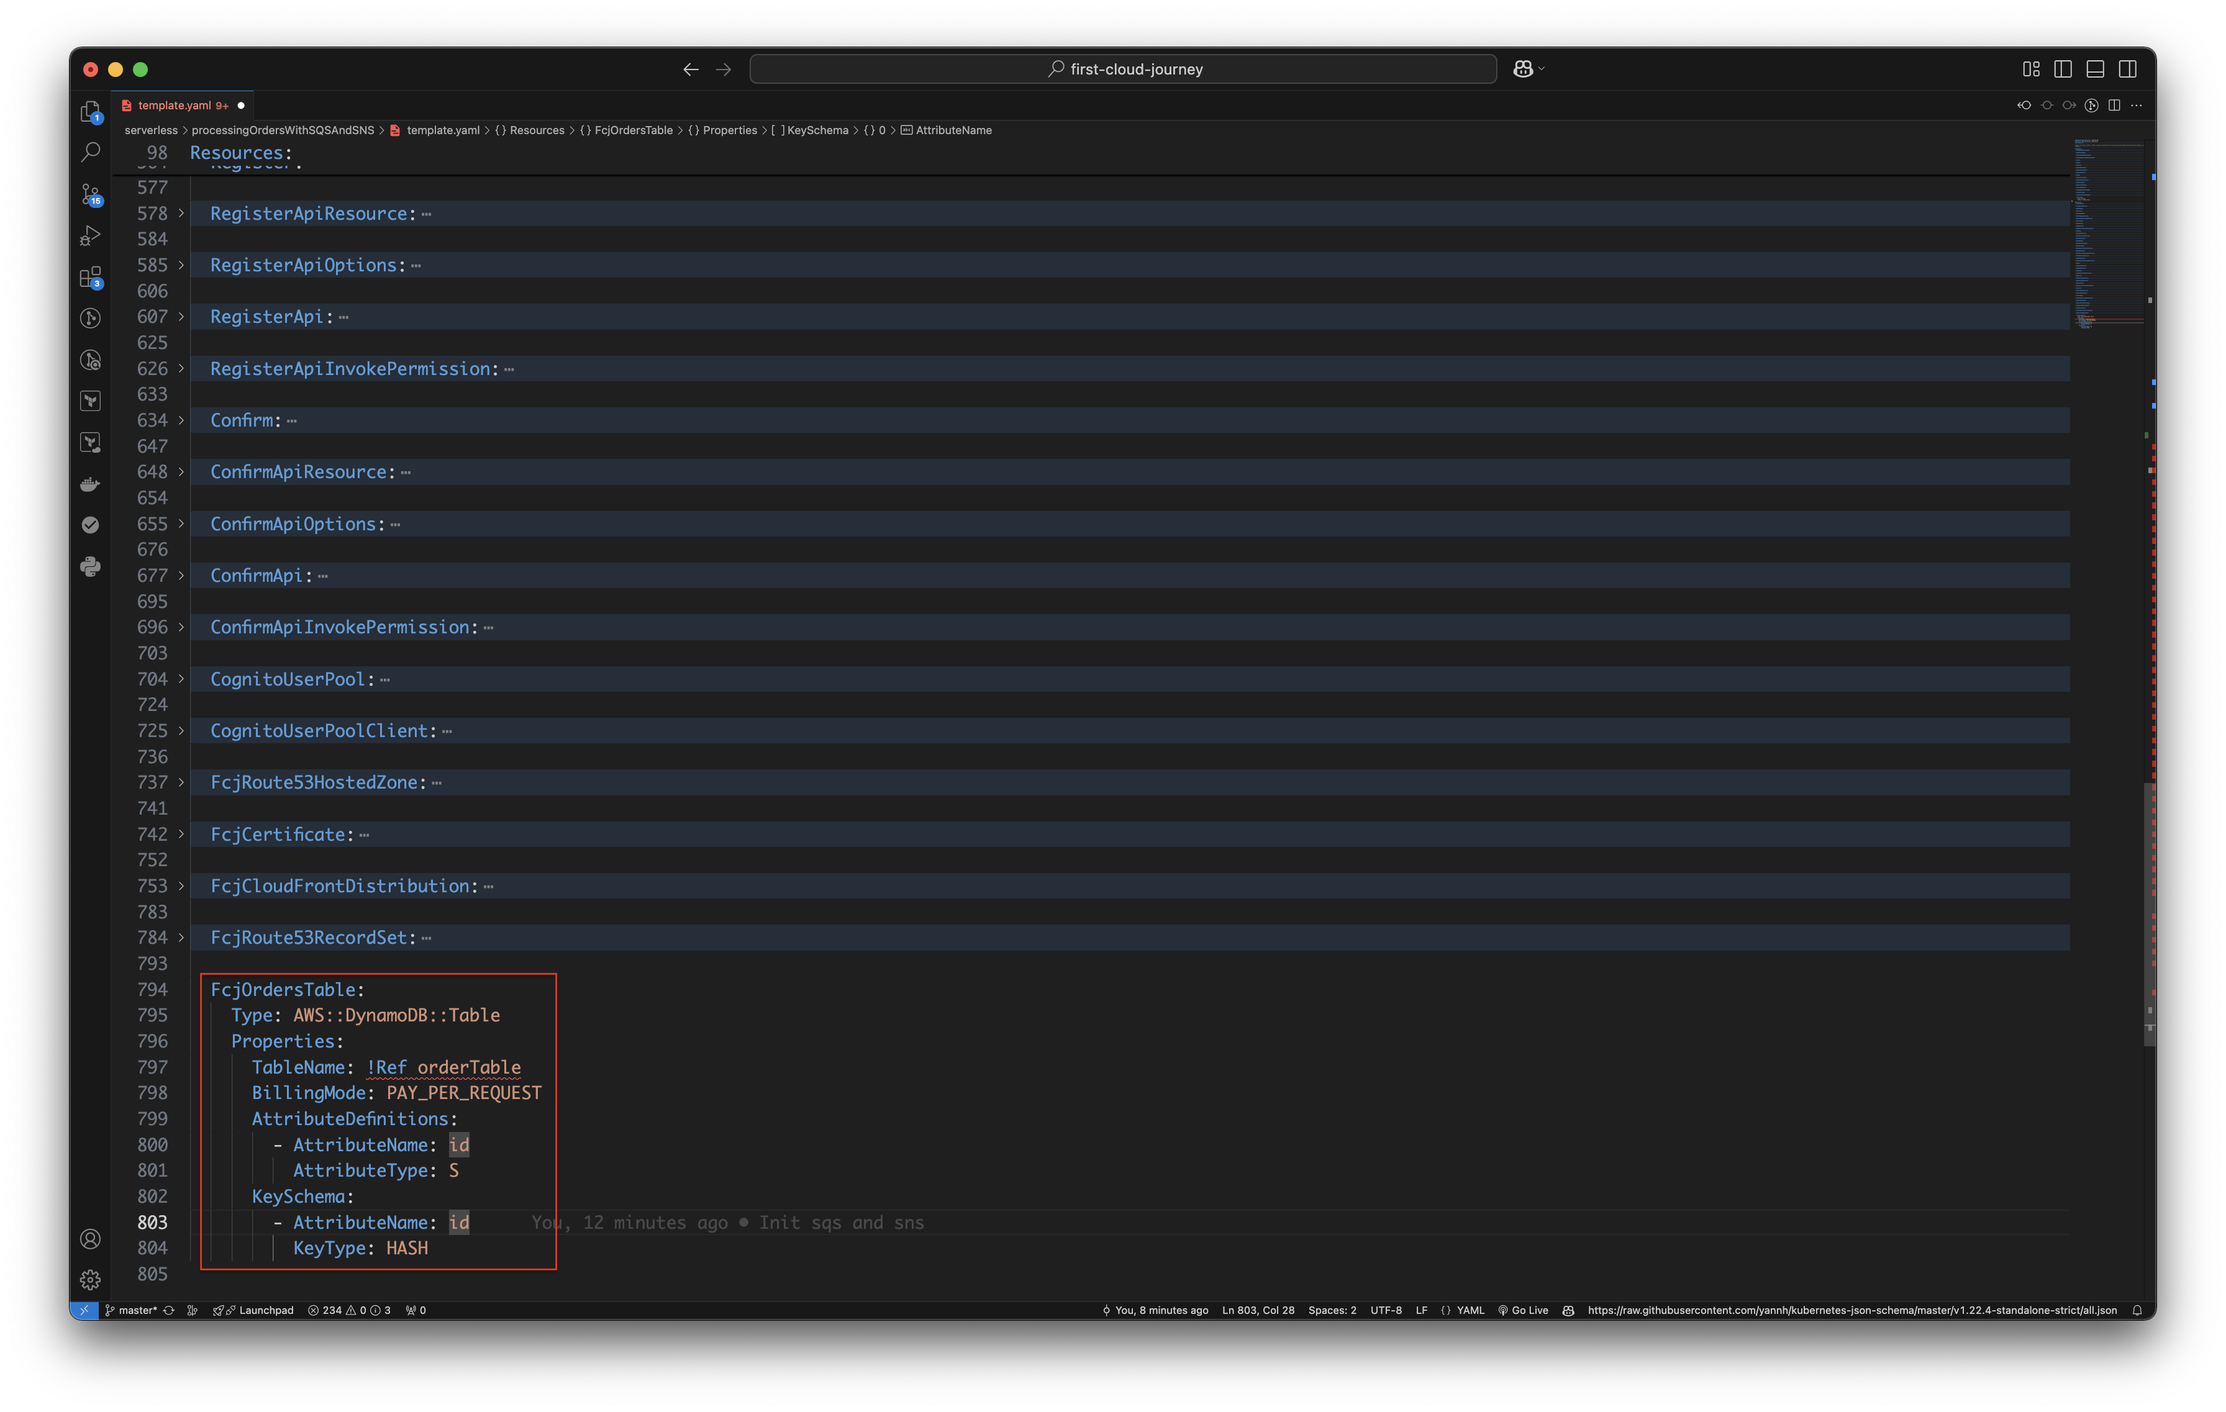
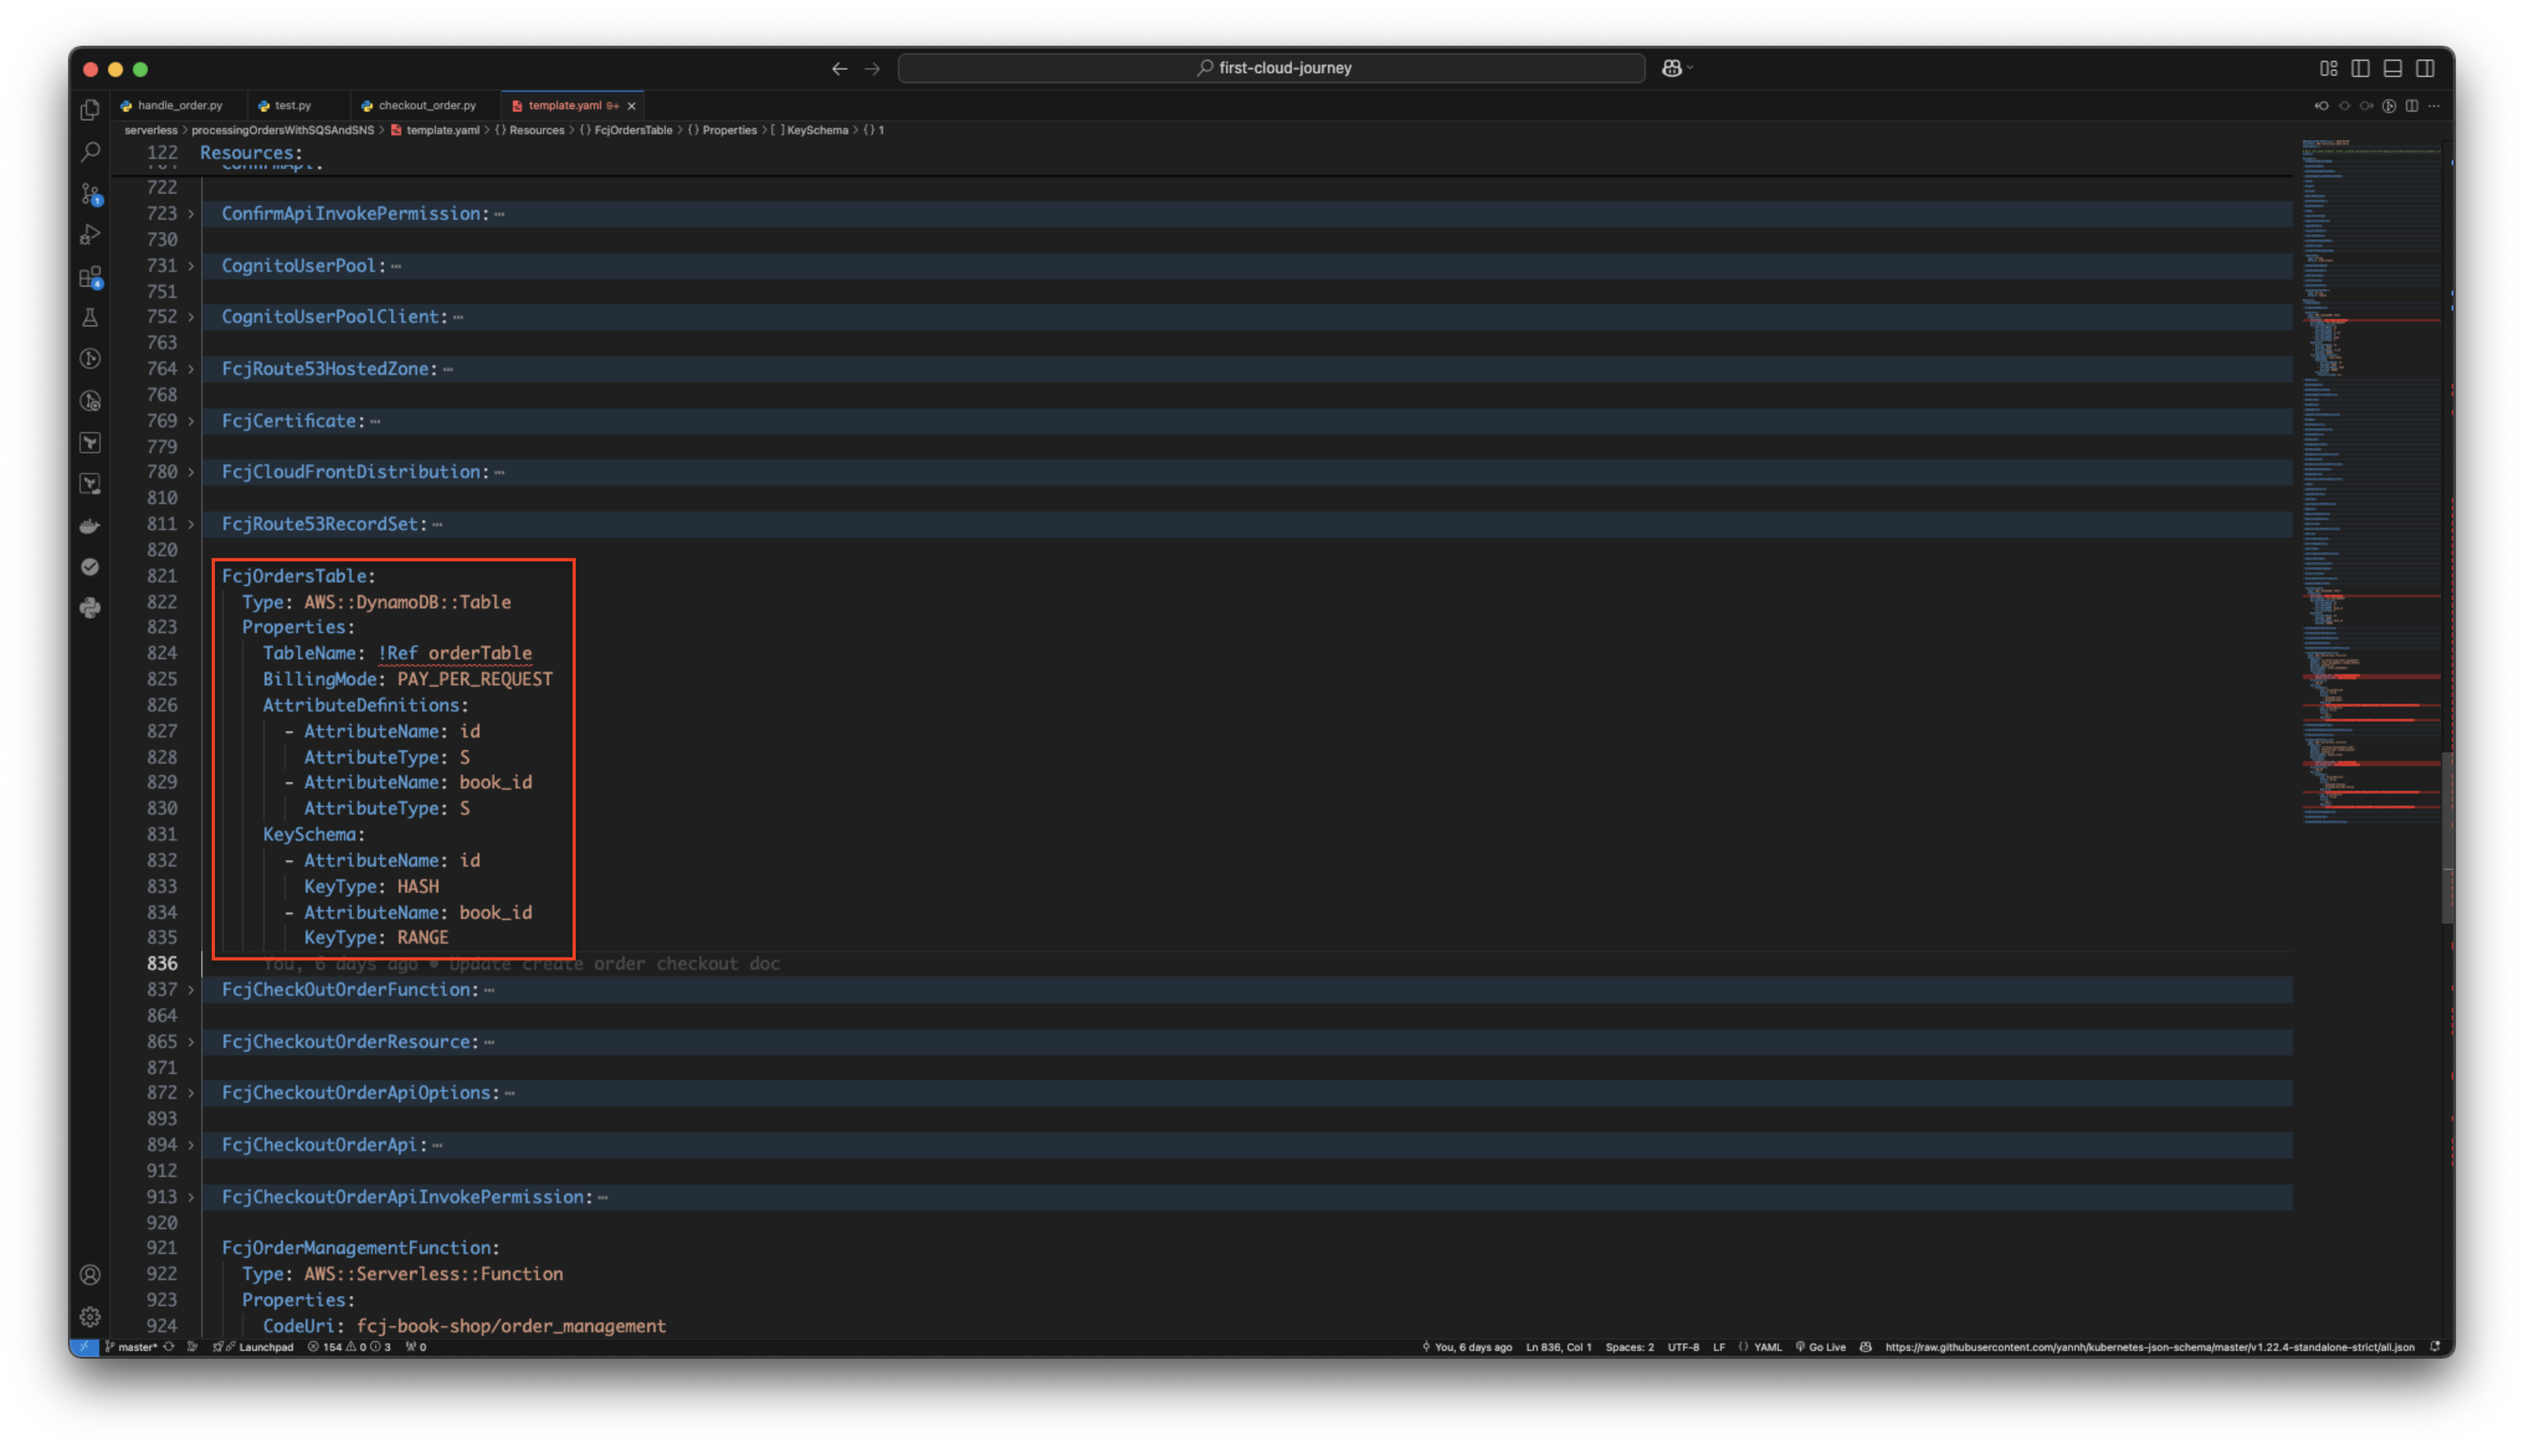
Finish 3.5 en version

diff --git a/content/3-create-api-lambda-function/3-5-create-delete-order-lambda-function/_index.md b/content/3-create-api-lambda-function/3-5-create-delete-order-lambda-function/_index.md
@@ -5,7 +5,7 @@ weight : 5
 chapter : false
 pre : " <b> 3.5 </b> "
 ---
-In this step, we will create a new DynamoDB table using a SAM template.
+In this step, we will create a new delete_order Lambda function using a SAM template.
 
 #### Preparation
 
@@ -24,6 +24,9 @@ In this step, we will create a new DynamoDB table using a SAM template.
       #     - LoginApi
       #     - RegisterApi
       #     - ConfirmApi
+      #     - FcjCheckoutOrderApi
+      #     - FcjOrderManagementApi
+      #     - FcjHandleOrderApi
 
       # BookApiStage:
       #   Type: AWS::ApiGateway::Stage
@@ -33,7 +36,7 @@ In this step, we will create a new DynamoDB table using a SAM template.
       #     DeploymentId: !Ref BookApiDeployment
       ```
 
-      ![CreateOrderTable](/images/temp/1/33.png?width=90pc)
+      ![CreateDeleteOrderFunction](/images/temp/1/33.png?width=90pc)
 
 2. Run the below commands.
 
@@ -43,38 +46,160 @@ In this step, we will create a new DynamoDB table using a SAM template.
     sam deploy --guided
     ```
 
-    ![CreateOrderTable](/images/temp/1/35.png?width=90pc)
+    ![CreateDeleteOrderFunction](/images/temp/1/35.png?width=90pc)
 
-#### Create FcjOrdersTable DynamoDB table
+#### Create FcjDeleteOrder function
 
 1. Open **template.yaml** in the source code you downloaded before.
-    - Add the following scripts below to create **FcjOrdersTable** table.
+    - Add the following scripts below to create **FcjDeleteOrder** function.
 
       ```yaml
-      orderTable:
-        Type: String
-        Default: OrdersTable
-      ```
-
-      ![CreateOrderTable](/images/temp/1/27.png?width=90pc)
-
-      ```yaml
-      FcjOrdersTable:
-        Type: AWS::DynamoDB::Table
+      FcjDeleteOrderFunction:
+        Type: AWS::Serverless::Function
         Properties:
-          TableName: !Ref orderTable
-          BillingMode: PAY_PER_REQUEST
-          AttributeDefinitions:
-            - AttributeName: id
-              AttributeType: S
-          KeySchema:
-            - AttributeName: id
-              KeyType: HASH
+          CodeUri: fcj-book-shop/delete_order
+          Handler: delete_order.lambda_handler
+          Runtime: python3.11
+          FunctionName: delete_order
+          Environment:
+            Variables:
+              SQS_QUEUE_URL: !Ref checkoutQueueUrl
+          Architectures:
+            - x86_64
+          Policies:
+            - Statement:
+                - Sid: VisualEditor0
+                  Effect: Allow
+                  Action:
+                    - sqs:*
+                  Resource:
+                    - !Sub "arn:aws:sqs:${AWS::Region}:${AWS::AccountId}:${checkoutQueueName}"
+
+      FcjDeleteOrderApi:
+        Type: AWS::ApiGateway::Method
+        Properties:
+          HttpMethod: DELETE
+          RestApiId: !Ref BookApi
+          ResourceId: !Ref FcjCheckoutOrderResource
+          AuthorizationType: NONE
+          Integration:
+            Type: AWS_PROXY
+            IntegrationHttpMethod: POST # For Lambda integrations, you must set the integration method to POST
+            Uri: !Sub >-
+              arn:aws:apigateway:${AWS::Region}:lambda:path/2015-03-31/functions/${FcjDeleteOrderFunction.Arn}/invocations
+          MethodResponses:
+            - StatusCode: "200"
+              ResponseParameters:
+                method.response.header.Access-Control-Allow-Origin: true
+                method.response.header.Access-Control-Allow-Methods: true
+                method.response.header.Access-Control-Allow-Headers: true
+
+      FcjDeleteOrderApiInvokePermission:
+        Type: AWS::Lambda::Permission
+        Properties:
+          FunctionName: !Ref FcjDeleteOrderFunction
+          Action: lambda:InvokeFunction
+          Principal: apigateway.amazonaws.com
+          SourceAccount: !Ref "AWS::AccountId"
       ```
 
-      ![CreateOrderTable](/images/temp/1/28.png?width=90pc)
+      ![CreateDeleteOrderFunction](/images/temp/1/57.png?width=90pc)
 
-2. Run the below commands.
+2. The directory structure is as follows.
+
+    ```bash
+    fcj-book-shop-sam-ws3
+    ├── fcj-book-shop
+    │   ├── checkout_order
+    │   │   └── checkout_order.py
+    │   ├── order_management
+    │   │   └── order_management.py
+    │   ├── handle_order
+    │   │   └── handle_order.py
+    │   ├── delete_order
+    │   │   └── delete_order.py
+    │   ├── ...
+    │
+    └── template.yaml
+    ```
+
+    - Create **delete_order** folder in **fcj-book-shop-sam-ws6/fcj-book-shop/** folder.
+    - Create **delete_order.py** file and copy the following code to it.
+
+      ```py
+      import json
+      import boto3
+      import os
+
+      headers = {
+          "Content-Type": "application/json",
+          "Access-Control-Allow-Origin": "*",
+          "Access-Control-Allow-Methods": "OPTIONS,POST,GET,DELETE",
+          "Access-Control-Allow-Headers": "Content-Type,X-Amz-Date,Authorization,X-Api-Key,X-Amz-Security-Token"
+      }
+
+      sqs = boto3.client('sqs')
+
+      # Get value of the environment variables
+      queue_url = os.getenv('SQS_QUEUE_URL')
+
+
+      def lambda_handler(event, context):
+          order = json.loads(event['body'])
+
+          try:
+              if 'receiptHandle' in order and order['receiptHandle']:
+                  sqs.delete_message(
+                      QueueUrl=queue_url,
+                      ReceiptHandle=order['receiptHandle']
+                  )
+
+              else:
+                  raise Exception("No receiptHandle provided")
+
+          except Exception as e:
+              print(f"Error deleting order: {e}")
+              raise Exception(f"Error deleting order: {e}")
+
+          return {
+              'statusCode': 200,
+              'headers': headers,
+              'body': json.dumps('Order deleted successfully')
+          }
+      ```
+
+      ![CreateDeleteOrderFunction](/images/temp/1/58.png?width=90pc)
+
+3. Uncomment this code block.
+
+    ```yaml
+    BookApiDeployment:
+      Type: AWS::ApiGateway::Deployment
+      Properties:
+        RestApiId: !Ref BookApi
+      DependsOn:
+        - BookApiGet
+        - BookApiCreate
+        - BookApiDelete
+        - LoginApi
+        - RegisterApi
+        - ConfirmApi
+        - FcjCheckoutOrderApi
+        - FcjOrderManagementApi
+        - FcjHandleOrderApi
+        - FcjDeleteOrderApi
+
+    BookApiStage:
+      Type: AWS::ApiGateway::Stage
+      Properties:
+        RestApiId: !Ref BookApi
+        StageName: !Ref stage
+        DeploymentId: !Ref BookApiDeployment
+    ```
+
+    ![CreateDeleteOrderFunction](/images/temp/1/59.png?width=90pc)
+
+4. Run the below commands.
 
     ```bash
     sam build
@@ -82,7 +207,20 @@ In this step, we will create a new DynamoDB table using a SAM template.
     sam deploy --guided
     ```
 
-    ![CreateOrderTable](/images/temp/1/29.png?width=90pc)
+    ![CreateDeleteOrderFunction](/images/temp/1/60.png?width=90pc)
 
-3. Open [AWS DynamoDB](https://us-east-1.console.aws.amazon.com/dynamodbv2/home?region=us-east-1#tables) console to check.
-    ![CreateOrderTable](/images/temp/1/30.png?width=90pc)
+#### Check the creation
+
+1. Open [Amazon API Gateway console](https://us-east-1.console.aws.amazon.com/apigateway/main/apis?region=us-east-1).
+    - Click **fcj-serverless-api**.
+      ![CreateDeleteOrderFunction](/images/temp/1/38.png?width=90pc)
+    - Click **Resources** on the left menu.
+    - Check **/order** just created.
+      ![CreateDeleteOrderFunction](/images/temp/1/61.png?width=90pc)
+
+2. Open [Amazon Lambda console](https://us-east-1.console.aws.amazon.com/lambda/home?region=us-east-1#/functions).
+    - Click **Functions** on the left menu.
+    - Choose **delete_order** function.
+      ![CreateDeleteOrderFunction](/images/temp/1/62.png?width=90pc)
+    - At **delete_order** page, check the function that just created.
+      ![CreateDeleteOrderFunction](/images/temp/1/63.png?width=90pc)

diff --git a/content/3-create-api-lambda-function/3-4-create-handle-order-lambda-function/_index.md b/content/3-create-api-lambda-function/3-4-create-handle-order-lambda-function/_index.md
@@ -272,14 +272,14 @@ In this step, we will create a new handle_order Lambda function using a SAM temp
 
 1. Open [Amazon API Gateway console](https://us-east-1.console.aws.amazon.com/apigateway/main/apis?region=us-east-1).
     - Click **fcj-serverless-api**.
-      ![CreateCheckoutOrderFunction](/images/temp/1/38.png?width=90pc)
+      ![CreateHandleOrderFunction](/images/temp/1/38.png?width=90pc)
     - Click **Resources** on the left menu.
     - Check **/handle** just created.
-      ![CreateCheckoutOrderFunction](/images/temp/1/54.png?width=90pc)
+      ![CreateHandleOrderFunction](/images/temp/1/54.png?width=90pc)
 
 2. Open [Amazon Lambda console](https://us-east-1.console.aws.amazon.com/lambda/home?region=us-east-1#/functions).
     - Click **Functions** on the left menu.
     - Choose **handle_order** function.
-      ![CreateCheckoutOrderFunction](/images/temp/1/55.png?width=90pc)
+      ![CreateHandleOrderFunction](/images/temp/1/55.png?width=90pc)
     - At **handle_order** page, check the function that just created.
-      <!-- ADD IMAGE 56 HERE -->
+      ![CreateHandleOrderFunction](/images/temp/1/56.png?width=90pc)

diff --git a/content/3-create-api-lambda-function/3-1-create-orders-table-dynamodb-table/_index.md b/content/3-create-api-lambda-function/3-1-create-orders-table-dynamodb-table/_index.md
@@ -67,9 +67,13 @@ In this step, we will create a new DynamoDB table using a SAM template.
           AttributeDefinitions:
             - AttributeName: id
               AttributeType: S
+            - AttributeName: book_id
+              AttributeType: S
           KeySchema:
             - AttributeName: id
               KeyType: HASH
+            - AttributeName: book_id
+              KeyType: RANGE
       ```
 
       ![CreateOrderTable](/images/temp/1/28.png?width=90pc)
